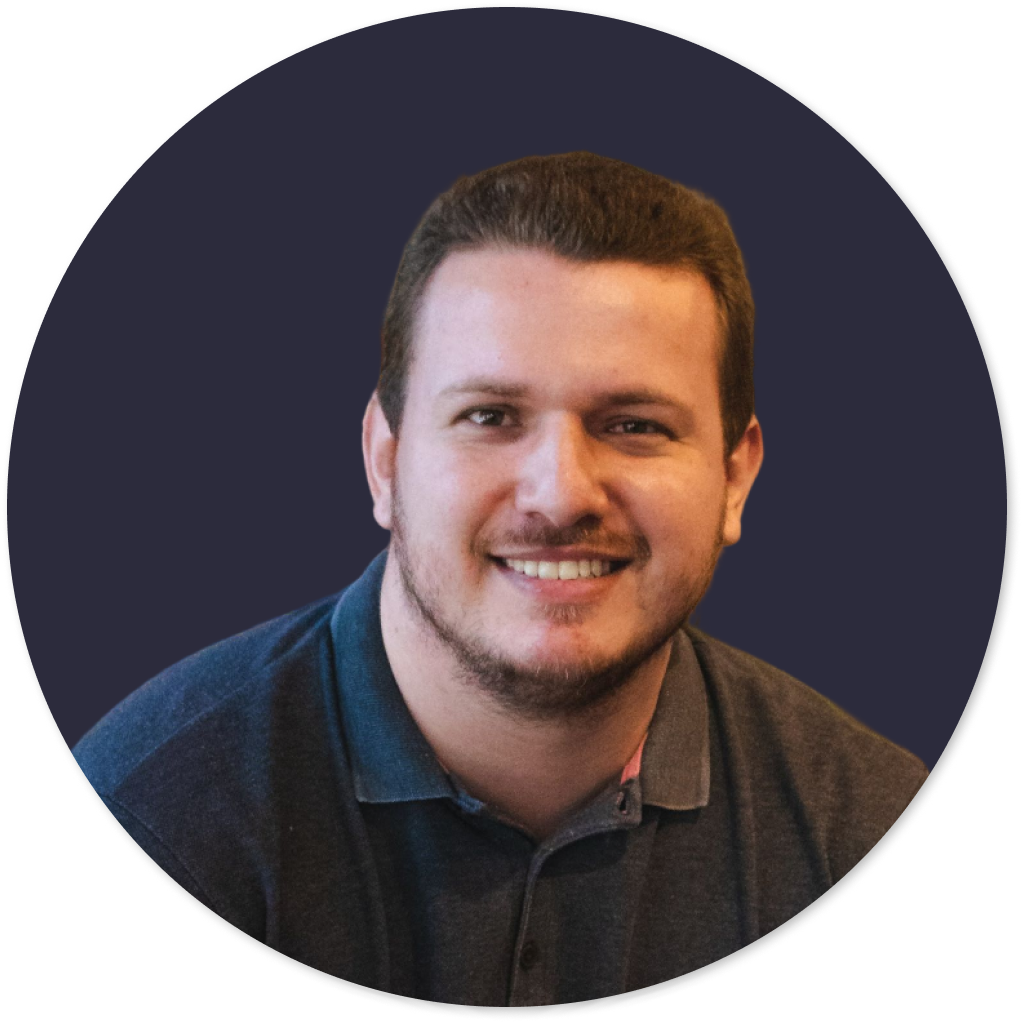
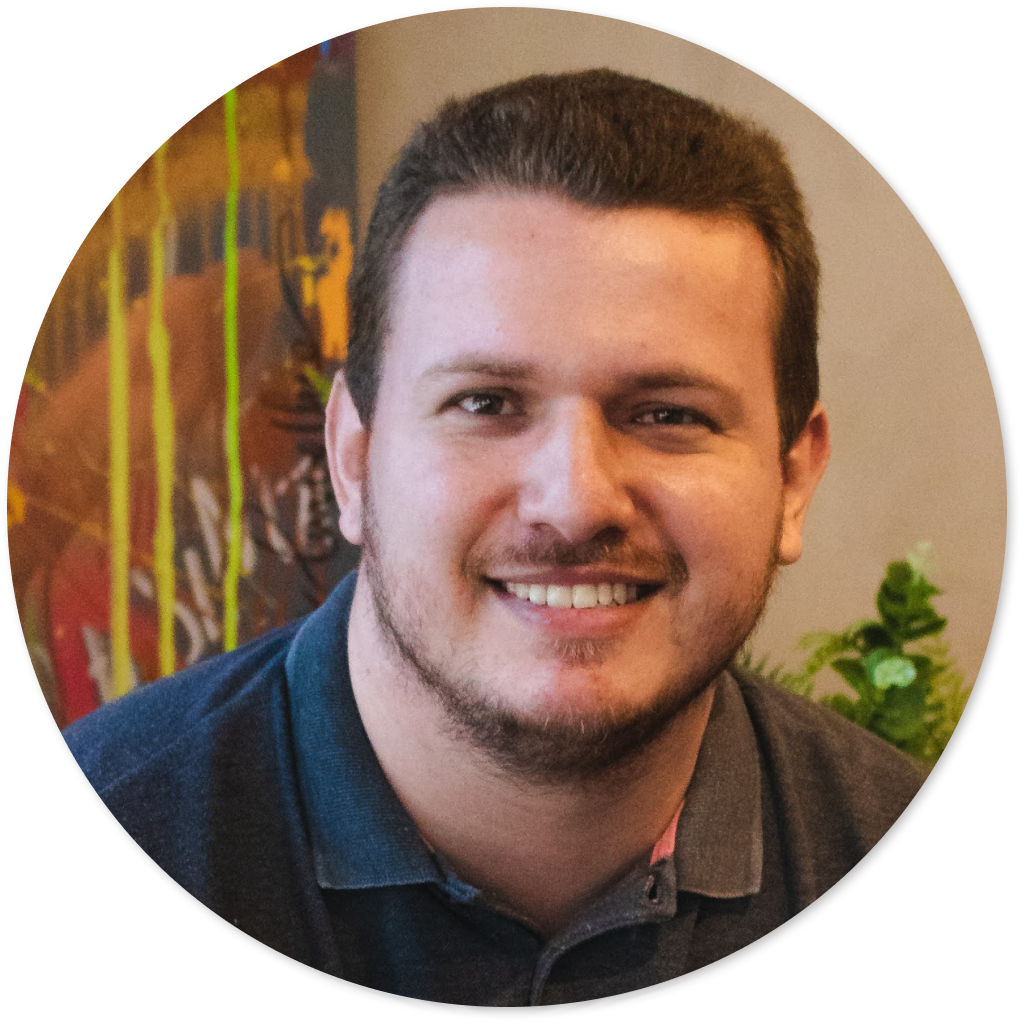
Alterando imagem e inserindo nome/especialidade

diff --git a/index.html b/index.html
@@ -1,39 +1,45 @@
 <!DOCTYPE html>
 <html lang="pt-BR">
-<head>
-  <meta charset="UTF-8">
-  <meta name="viewport" content="width=device-width, initial-scale=1.0">
-  <title>Links</title>
-  <link rel="stylesheet" href="estilo/style.css">
-  <link href="https://fonts.googleapis.com/css2?family=Ubuntu+Mono&display=swap" rel="stylesheet">
-  <link rel="stylesheet" href="https://cdnjs.cloudflare.com/ajax/libs/font-awesome/6.0.0-beta3/css/all.min.css">
-</head>
-<body>
-  <!-- Imagem de perfil -->
-  <div class="profile-image">
-    <img src="imagem/enzo_delcompare.png" alt="Imagem de perfil">
-  </div>
+  <head>
+    <meta charset="UTF-8">
+    <meta name="viewport" content="width=device-width, initial-scale=1.0">
+    <title>Enzo Delcompare</title>
+    <link rel="stylesheet" href="estilo/style.css">
+    <link href="https://fonts.googleapis.com/css2?family=Ubuntu+Mono&display=swap" rel="stylesheet">
+    <link rel="stylesheet" href="https://cdnjs.cloudflare.com/ajax/libs/font-awesome/6.0.0-beta3/css/all.min.css">
+  </head>
+  <body>
 
-  <!-- Container principal de links -->
-  <div class="container">
-    <h1>Meus Links</h1>
-    <div class="links">
-      <a href="https://br.linkedin.com/in/enzodelcompare" target="_blank" class="link-btn">
-        <i class="fab fa-linkedin"></i> in/enzodelcompare
-      </a>
-      <a href="https://www.instagram.com/enzodelcompare/" target="_blank" class="link-btn">
-        <i class="fab fa-instagram"></i> @enzodelcompare
-      </a>
-      <a href="https://chat.whatsapp.com/LUt0cNmaiFeAkWUnzG9nWA" target="_blank" class="link-btn">
-        <i class="fab fa-whatsapp"></i> DATA Voyagers
-      </a>
-      <a href="https://enzodelcompare.github.io/data-voyagers/" target="_blank" class="link-btn">
-        <i class="fa-solid fa-globe"></i> DATA Voyagers
-      </a>
+    <!-- Imagem de perfil -->
+    <div class="profile-image">
+      <img src="imagem/enzo_delcompare.png" alt="Imagem de perfil">
     </div>
-  </div>
-  <footer>
-    <p>&copy;2024 Enzo Delcompare</p>
-  </footer>
-</body>
+
+    <!-- Nome e título -->
+    <div class="profile-info">
+      <h1>Enzo Delcompare</h1>
+      <p>Especialista em Análise de Dados</p>
+    </div>
+
+    <!-- Container principal de links -->
+    <div class="container">
+      <div class="links">
+        <a href="https://br.linkedin.com/in/enzodelcompare" target="_blank" class="link-btn">
+          <i class="fab fa-linkedin"></i> in/enzodelcompare
+        </a>
+        <a href="https://www.instagram.com/enzodelcompare/" target="_blank" class="link-btn">
+          <i class="fab fa-instagram"></i> @enzodelcompare
+        </a>
+        <a href="https://chat.whatsapp.com/LUt0cNmaiFeAkWUnzG9nWA" target="_blank" class="link-btn">
+          <i class="fab fa-whatsapp"></i> DATA Voyagers
+        </a>
+        <a href="https://enzodelcompare.github.io/data-voyagers/" target="_blank" class="link-btn">
+          <i class="fa-solid fa-globe"></i> DATA Voyagers
+        </a>
+      </div>
+    </div>
+    <footer>
+      <p>&copy;2024 Enzo Delcompare</p>
+    </footer>
+  </body>
 </html>

diff --git a/estilo/style.css b/estilo/style.css
@@ -26,6 +26,25 @@
     object-fit: cover;
     margin-bottom: 20px;
   }
+
+  /* Estilos para o Nome e Título */
+.profile-info {
+  text-align: center;
+  margin-bottom: 20px;
+}
+
+.profile-info h1 {
+  font-size: 1.8em;
+  color: #70e000;
+  margin-bottom: 5px;
+}
+
+.profile-info p {
+  font-size: 1.2em;
+  color: #ffffff;
+  opacity: 0.8; /* Deixa o texto um pouco mais discreto */
+}
+
   
   /* Container principal */
   .container {
